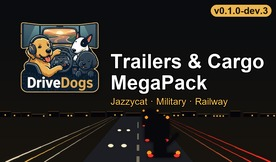
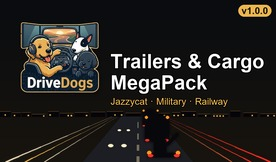
release 1.0.0 since every phase is finished, with source versions and load order in the readme

Changed region(s): [[0.7536, 0.0, 0.9855, 0.1235]]

diff --git a/README.md b/README.md
@@ -6,6 +6,16 @@ cargo pay balanced to follow [DriveDogs Economy](https://github.com/DevilDogTG/E
 rules. This repo contains **configuration only**. Source content lives outside git.
 See [ADR-0001](docs/adr/ADR-0001-one-megapack-requires-economy.md).
 
+## Sources
+| Pack (Jazzycat) | Version | Archives used |
+|---|---|---|
+| Trailers & cargo | 11.10.6 | part1-3 |
+| Military cargo | 6.8.7 | base, eng, traffic add-on |
+| Railway cargo | 4.6.7 | main |
+
+Not used: the Overweight pack (older copies of files already in the main pack) and Military `rus`. Origin
+links are in `sources.yaml`.
+
 ## Structure
 - `megapack.yaml`: package identity, `source_root`, excludes, part size caps
 - `sources.yaml`: every origin mod: author, version, origin URL, layer, overrides
@@ -33,8 +43,9 @@ Uses the `ets2-mod-developer` profile's `megapack` skill:
 
 ## Installing
 Copy **all** `.scs` parts of one version from `output/local/` into the ETS2 `mod` folder and enable every part.
-Each release has new file names (`_v<version>`), so disable and remove the previous version's parts. Order
-between the parts does not matter.
+Each release has new file names (`_v<version>`), so disable and remove the previous version's parts. Load
+order does not matter, between the parts or against DriveDogs Economy and the AI Traffic megapack (they share
+no paths, or only byte-identical ones).
 
 Requires DriveDogs Economy. Built without map-mod support: Jazzycat cargo appears only at companies of the base
 game and its DLCs, not at ProMods/RusMap companies. Do not load the original Jazzycat trailer/cargo packs (including the Overweight
